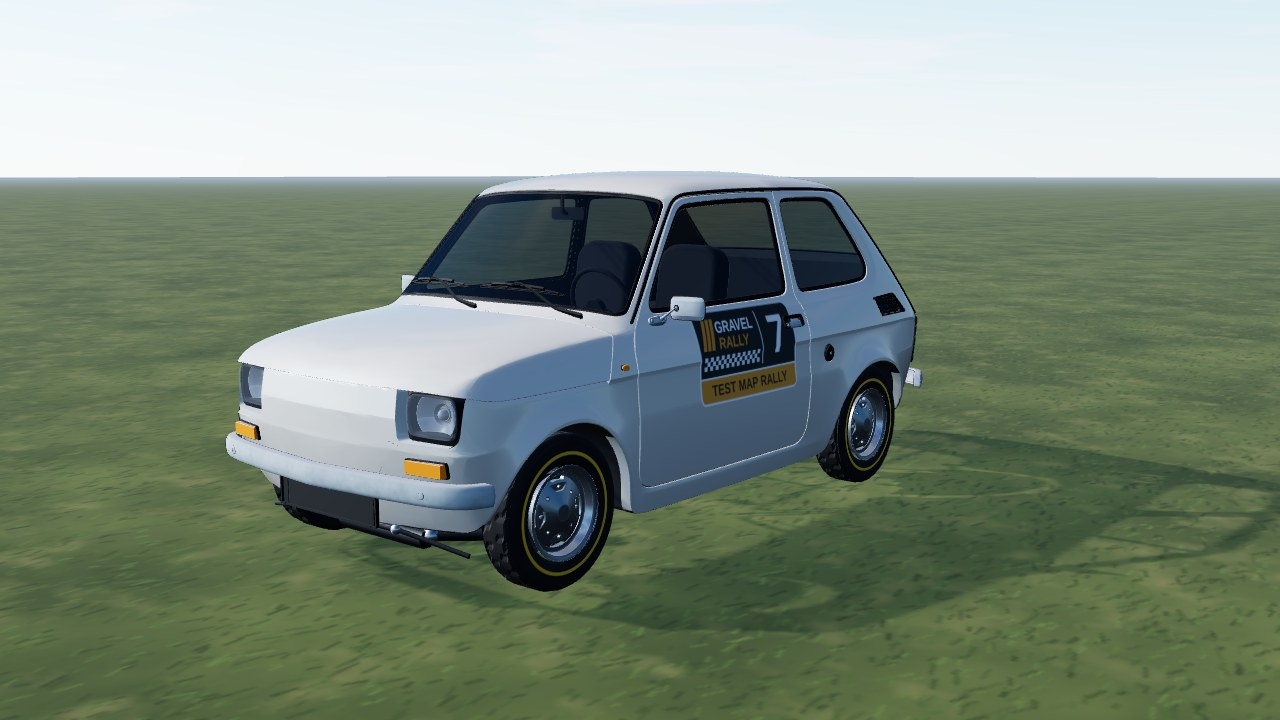
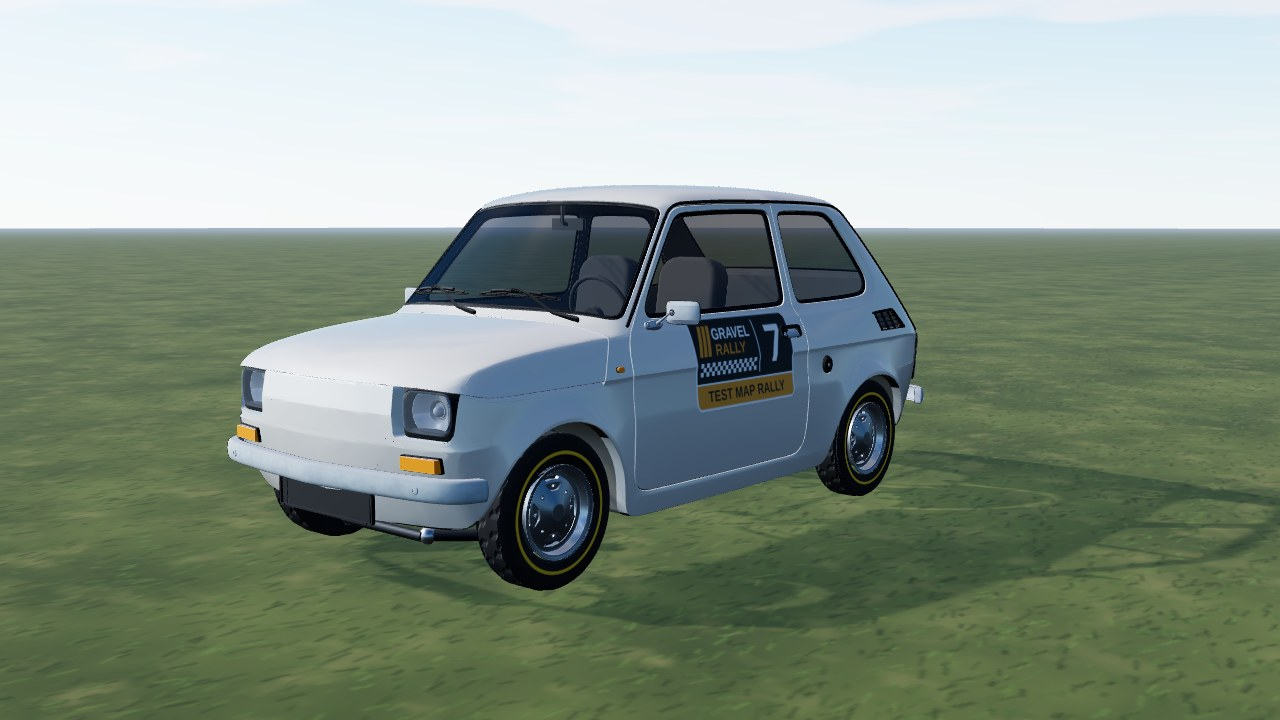
Rally: Fiat 126p lighter cockpit, faceted tail lenses, simple front axle
- Cockpit in a lighter grey so seats and floor read through the glass
- Tail lenses use the moulded lens texture
- No anti-roll bar: one thin leaf spring under the front
- Retake screenshots

diff --git a/src/games/rally/cars/shared/corner-suspension.ts b/src/games/rally/cars/shared/corner-suspension.ts
@@ -32,6 +32,8 @@ export interface CornerSuspensionDef {
   topIn: { front: number; rear: number };
   /** Axles whose wheels are driven: a drive shaft shows from the hub inboard (not on a rigid axle). */
   driven: ('front' | 'rear')[];
+  /** false = no anti-roll bar; one thin transverse leaf spring instead of the crossmembers (Fiat 126p). */
+  swayBar?: boolean;
 }
 
 const Y = new Vector3(0, 1, 0);
@@ -275,6 +277,14 @@ export class CornerSuspension {
    */
   private swayBar(i: number, z: number, cx: number, restY: number): void {
     const { bar, chassis, lower } = this;
+    if (this.def.swayBar === false) {
+      if (i % 2 === 1) {
+        bar.set(cx, restY - 0.1, z + 0.22);
+        chassis.set(-cx, restY - 0.1, z + 0.22);
+        this.rod(bar, chassis, 0.018); // transverse leaf spring
+      }
+      return;
+    }
     bar.set(cx * 1.1, restY - 0.04, z + 0.36);
     if (i % 2 === 1) {
       chassis.set(-cx * 1.1, restY - 0.04, z + 0.36);

diff --git a/src/games/rally/cars/shared/part-materials.ts b/src/games/rally/cars/shared/part-materials.ts
@@ -63,6 +63,7 @@ export type PartName =
   | 'flagwhite'
   | 'flagred'
   | 'interior'
+  | 'interiorgrey'
   | 'cage'
   | 'coilover'
   | 'lampcup'
@@ -1925,6 +1926,9 @@ const BUILDERS: Record<PartName, () => Material> = {
   flagred: () => new MeshStandardMaterial({ color: 0xd3202c, roughness: 0.4 }),
   /** Modelled cockpit of an imported body (seats, dash, door cards): dark, matte - without it the cockpit got the livery. */
   interior: () => new MeshStandardMaterial({ color: 0x2a2c30, roughness: 0.9 }),
+  /** The same cockpit in a lighter grey-beige (Fiat 126p): the seats and floor read through tinted glass. */
+  interiorgrey: () =>
+    new MeshStandardMaterial({ color: 0x7a766d, roughness: 0.9 }),
   /** Roll cage of an imported cockpit: light grey like the procedural cars' cage (car-model.ts cageMat). */
   cage: () =>
     new MeshStandardMaterial({

diff --git a/src/games/rally/cars/pezetka/pezetka.ts b/src/games/rally/cars/pezetka/pezetka.ts
@@ -209,6 +209,7 @@ export const pezetka: CarDef = {
       topY: { front: 0.34, rear: 0.32 },
       topIn: { front: 0.18, rear: 0.18 },
       driven: ['rear'],
+      swayBar: false,
     },
     // The model carries its own cockpit shell: see-through glass shows it.
     glass: { color: 0x141c24, opacity: 0.6 },

diff --git a/src/games/rally/cars/shared/car-model.ts b/src/games/rally/cars/shared/car-model.ts
@@ -374,6 +374,7 @@ const RECESS_SHADE = 0.12;
 /** Imported-model parts that never cast a shadow (hidden by the body's own shadow or too small to show). */
 const NO_SHADOW_PARTS = new Set([
   'interior',
+  'interiorgrey',
   'cage',
   'glass',
   'lamphousing',

diff --git a/.claude/skills/rally-car-import/SKILL.md b/.claude/skills/rally-car-import/SKILL.md
@@ -373,8 +373,9 @@ re-route the faces with a `chartBoxes` entry (rebuild the GLB, verify the geomet
   `srcParts.textures[].size` (e.g. 512) shrinks a kept sheet to that many px and 256 colours (the game draws sheets at 512 anyway):
   27 MB -> body 3.5 MB + rim 0.3 MB + two sheets of 0.2 / 0.1 MB.
 - **Textured but flat-coloured parts**: a bumper with its own weathered base colour = `src:int:<file>` (matt sheet); a headlamp whose
-  reflector art is the sheet = `src:lamp:<file>`; indicator lenses (`amber`), the lower red tail lens (`brakecover`) and the reflector
-  behind it (`lampcup`) are stock parts. A tail lamp that is one primitive with an amber top and a red bottom is split by a `y` box rule.
+  reflector art is the sheet = `src:lamp:<file>`; indicator lenses (`amber`), the reflector behind a tail lens (`lampcup`) and the moulded tail lens (`amberweave` /
+  `tailweave`: a flat-coloured source lens gets the faceted lens texture the game draws) are stock parts. A cockpit that reads as one
+  black mass through the glass: `interiorgrey` instead of `interior`. A cheap-looking suspension in an open underbody: `cornerSuspension.swayBar: false`. A tail lamp that is one primitive with an amber top and a red bottom is split by a `y` box rule.
 - **Rippled panels** (a dense hand-modelled mesh whose own normals were smoothed by the artist): computing normals from the geometry
   shows waves on bonnets and aprons. `normalSmooth: { "iterations": 8, "creaseDeg": 25 }` in `model.source.json` relaxes the face
   normals before the vertex normals are built (`stl-to-glb.mjs`); keep the triangle budget near the source's count (~100k) so the

diff --git a/src/games/rally/cars/pezetka/README.md b/src/games/rally/cars/pezetka/README.md
@@ -5,7 +5,7 @@ livery, so it is mapped to game parts by material. In game it is **Fiat 126p**: 
 rear axle, 4-speed, **no ABS and no traction control**. Test car (hidden in the published build).
 
 - **Kept from the model:** the whole body and cockpit shell (flat colours), the bumpers with their own weathered texture, the
-  head lamps with their own reflector sheet, the amber indicators, the two-colour tail lamps and the steel rim (de-cambered,
+  head lamps with their own reflector sheet, the amber indicators, the two-colour tail lamps (faceted lens) and the steel rim (de-cambered,
   centred on the hub).
 - **Dropped:** tyres, the plates, the front badge and the "126p" lettering.
 - **Shrunk:** the source is 27 MB (35 textures); the game uses flat paint, so only the bumper and head lamp sheets ship (512 px,
